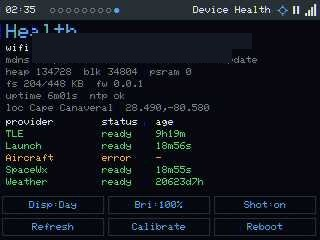
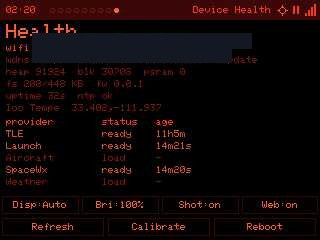
feat: web-server on/off toggle (boots off by default; Health + serial control)
Reclaim contiguous heap for the live feeds on the no-PSRAM board by stopping the
AsyncWebServer/AsyncTCP listener when remote access isn't needed.

- WebPortal::start()/stop()/running(). begin() now only REGISTERS routes; start()
  opens the listener + mDNS. (This split fixes a wedge: a boot-off device must never
  do begin()->end()->begin(), which left the socket not accepting.)
- Boots OFF by default (webOnBoot setting, default false) so the feeds get the full
  ~65 KB largest block instead of ~16-30 KB with the server + screenshot buffer up.
- Re-enable from the Health "Web" toggle (persists webOnBoot) or the serial console:
  `web on` / `web off` / `web` (toggle) / `heap` / `reboot`. No lockout — a reboot
  always comes up off, and serial always works.
- Verified over USB serial: boot-off, serial `web on` restores the API cleanly,
  toggle round-trips, heap delta confirmed.

Docs: README Health caption + backlog updated (shipped); README "what's next"
drops the now-done item.

Changed region(s): [[0.0, 0.0, 1.0, 0.9917], [0.7188, 0.2333, 0.8125, 0.2625], [0.2812, 0.6708, 0.3125, 0.7]]

diff --git a/src/services/WebPortal.cpp b/src/services/WebPortal.cpp
@@ -236,10 +236,9 @@ bool WebPortal::begin(Settings* s, const String& hostname) {
 
   String host = _s->getString("hostname", hostname.c_str());   // editable mDNS name (settings)
   host.trim(); if (!host.length()) host = hostname;
-  if (MDNS.begin(host.c_str())) {
-    MDNS.addService("http", "tcp", 80);
-    Serial.printf("[web] http://%s.local/\n", host.c_str());
-  }
+  _host = host;
+  // NOTE: routes are REGISTERED here but the listener is NOT started — call start()
+  // for that (so a boot-off device never does a begin()->end() that wedges the socket).
 
   _server.on("/", HTTP_GET, [](AsyncWebServerRequest* req) {
     req->send(200, "text/html", kIndexHtml);
@@ -330,10 +329,24 @@ bool WebPortal::begin(Settings* s, const String& hostname) {
   // OTA + settings basic-auth (spec §13).
   ElegantOTA.setAuth(_s->getString("otaUser", "admin").c_str(),
                      _s->getString("otaPass", "overhead").c_str());
-  ElegantOTA.begin(&_server);
-
-  _server.begin();
-  return true;
+  ElegantOTA.begin(&_server);            // attach OTA handlers (no listener yet)
+  return true;                           // start() opens the listener
 }
 
-void WebPortal::loop() { ElegantOTA.loop(); }
+void WebPortal::loop() { if (_running) ElegantOTA.loop(); }
+
+void WebPortal::stop() {
+  if (!_running) return;
+  _server.end();                         // close the listener (routes stay registered)
+  MDNS.end();
+  _running = false;
+  Serial.printf("[web] server OFF  largest free block = %u\n", (unsigned)ESP.getMaxAllocHeap());
+}
+
+void WebPortal::start() {
+  if (_running) return;
+  _server.begin();
+  if (MDNS.begin(_host.c_str())) { MDNS.addService("http", "tcp", 80); Serial.printf("[web] http://%s.local/\n", _host.c_str()); }
+  _running = true;
+  Serial.printf("[web] server ON   largest free block = %u\n", (unsigned)ESP.getMaxAllocHeap());
+}

diff --git a/src/main.cpp b/src/main.cpp
@@ -272,7 +272,12 @@ void setup() {
 
   web.setStatusJsonProvider(fillStatusJson);
   web.setDebug(&app, &display);     // /api/screen.bmp, /api/tap, /api/swipe
-  web.begin(&settings, gHostname);  // up early so OTA/API survive the lean update pass
+  web.begin(&settings, gHostname);  // registers routes only (no listener yet)
+  // Field default: boot with the web server OFF so the AsyncTCP/server footprint
+  // doesn't crowd the no-PSRAM heap floor — the live feeds get max contiguous heap.
+  // Re-enable any time from the Health "Web" toggle or the serial console ("web on").
+  if (settings.getBool("webOnBoot", false)) web.start();
+  else Serial.println("[web] booted OFF (webOnBoot=false) — type 'web on' on serial, or tap Health->Web");
 
   runBootUpdater();   // two-phase boot: refresh stale caches in a lean phase, then reboot to viewer
 
@@ -334,6 +339,7 @@ void setup() {
   healthPage = new PageHealth(touch, timeSvc, locSvc, gHostname,
                               tleProv, launchProv, aircraftProv, spaceWxProv, weatherProv,
                               themeCtl, settings);
+  healthPage->setWebPortal(&web);     // "Web" on/off toggle frees heap for the feeds
   // Carousel, ground->space order (spec §4.1): Agenda (home), Launches, Aircraft,
   // Satellites, Space Wx, Solar System, then Diagnostics.
   app.addPage(agendaPage);
@@ -362,8 +368,30 @@ void setup() {
                 Display::freeHeap(), Display::largestFreeBlock());
 }
 
+// Serial console commands (recovery + diagnostics). Most useful: re-enable the web
+// server after it's been toggled off (so toggling it off can never lock you out).
+//   web on | web off | web   (toggle) ;  heap ;  reboot
+static void serviceSerialCmd() {
+  if (!Serial.available()) return;
+  String cmd = Serial.readStringUntil('\n'); cmd.trim(); cmd.toLowerCase();
+  if (cmd.startsWith("web")) {
+    String a = cmd.substring(3); a.trim();
+    if (a == "on")        web.start();
+    else if (a == "off")  web.stop();
+    else                  { if (web.running()) web.stop(); else web.start(); }
+    Serial.printf("[cmd] web %s\n", web.running() ? "ON" : "OFF");
+  } else if (cmd == "heap") {
+    Serial.printf("[cmd] free=%u largestBlock=%u\n", (unsigned)ESP.getFreeHeap(), (unsigned)ESP.getMaxAllocHeap());
+  } else if (cmd == "reboot") {
+    Serial.println("[cmd] rebooting"); delay(50); ESP.restart();
+  } else if (cmd.length()) {
+    Serial.printf("[cmd] unknown: '%s' (try: web on|off, heap, reboot)\n", cmd.c_str());
+  }
+}
+
 void loop() {
   uint32_t now = millis();
+  serviceSerialCmd(); // console: web on|off, heap, reboot
   net.poll();        // dispatch completed HTTP jobs on the UI thread
   timeSvc.tick();    // detect NTP sync edge -> publish Time
   web.loop();        // ElegantOTA pump

diff --git a/src/pages/PageHealth.cpp b/src/pages/PageHealth.cpp
@@ -13,6 +13,7 @@
 #include "../providers/WeatherProvider.h"
 #include "../core/ThemeController.h"
 #include "../services/Settings.h"
+#include "../services/WebPortal.h"
 #include <LittleFS.h>
 #include <WiFi.h>
 #include <time.h>
@@ -64,18 +65,22 @@ static int briIndex(Settings& s) {
 }
 
 void PageHealth::onTouch(App& app, int x, int y) {
-  if (y >= app.contentH() - 44 && y < app.contentH() - 26) {   // display / brightness / shots row
-    int col = x / (app.contentW() / 3);
+  if (y >= app.contentH() - 44 && y < app.contentH() - 26) {   // display / brightness / shots / web row
+    int col = x / (app.contentW() / 4);
     if (col == 0) {                                            // cycle palette
       setThemeMode(_settings, (themeModeIndex(_settings) + 1) % 4);
       _theme.forceReapply();
     } else if (col == 1) {                                     // cycle brightness
       _settings.set("backlight", (long)kBri[(briIndex(_settings) + 1) % 5]);
       _settings.save(); _theme.forceReapply();
-    } else {                                                   // toggle remote screenshots
+    } else if (col == 2) {                                     // toggle remote screenshots
       bool on = !app.display().shotsEnabled();
       app.display().setShotsEnabled(on);
       _settings.set("debugShots", on); _settings.save();
+    } else if (_web) {                                         // toggle the web server (frees heap)
+      if (_web->running()) _web->stop(); else _web->start();
+      _settings.set("webOnBoot", _web->running());             // persist the boot preference
+      _settings.save();
     }
     _dirty = _needClear = true;
     return;
@@ -162,16 +167,21 @@ void PageHealth::draw(App& app) {
     g.drawString("refreshing providers...", cw / 2, cy0 + ch - 52);
   }
 
-  // Display-mode / brightness / screenshots buttons (tap to cycle/toggle).
-  int ty = cy0 + ch - 44, tw = cw / 3;
+  // Display-mode / brightness / screenshots / web-server buttons (tap to cycle/toggle).
+  int ty = cy0 + ch - 44, tw = cw / 4;
   g.setTextDatum(textdatum_t::middle_center);
   g.setTextColor(gTheme.accent, gTheme.bg);
-  g.drawRect(2, ty, tw - 4, 18, gTheme.grid);
+  g.drawRect(2, ty, tw - 3, 18, gTheme.grid);
   g.drawString(String("Disp:") + kThemeNames[themeModeIndex(_settings)], tw / 2, ty + 9);
-  g.drawRect(tw + 2, ty, tw - 4, 18, gTheme.grid);
+  g.drawRect(tw + 2, ty, tw - 3, 18, gTheme.grid);
   g.drawString(String("Bri:") + kBriName[briIndex(_settings)], tw + tw / 2, ty + 9);
-  g.drawRect(2 * tw + 2, ty, tw - 4, 18, gTheme.grid);
+  g.drawRect(2 * tw + 2, ty, tw - 3, 18, gTheme.grid);
   g.drawString(String("Shot:") + (app.display().shotsEnabled() ? "on" : "off"), 2 * tw + tw / 2, ty + 9);
+  g.drawRect(3 * tw + 2, ty, tw - 4, 18, gTheme.grid);     // web server on/off (frees heap for feeds)
+  bool webOn = !_web || _web->running();
+  g.setTextColor(webOn ? gTheme.accent : gTheme.warn, gTheme.bg);
+  g.drawString(String("Web:") + (webOn ? "on" : "off"), 3 * tw + tw / 2, ty + 9);
+  g.setTextColor(gTheme.accent, gTheme.bg);
 
   // Button row.
   int by = cy0 + ch - 22, bw = cw / 3;

diff --git a/src/services/WebPortal.h b/src/services/WebPortal.h
@@ -19,6 +19,14 @@ public:
   bool begin(Settings* s, const String& hostname);
   void loop();   // pump ElegantOTA (handles post-update reboot in async mode)
 
+  // Stop/start the listener to reclaim contiguous heap for the feeds (the AsyncTCP/
+  // server footprint). Routes stay registered — start() just re-opens the socket +
+  // mDNS. Runtime-only (a reboot always comes up with the server ON), so there's no
+  // permanent lockout: re-enable from the Health "Web" toggle or the serial console.
+  void stop();
+  void start();
+  bool running() const { return _running; }
+
   // main injects a filler for /api/status (heap, wifi, time, location) so the
   // portal stays decoupled from the services it reports on.
   void setStatusJsonProvider(std::function<void(JsonDocument&)> fn) { _statusFn = std::move(fn); }
@@ -35,4 +43,6 @@ private:
   std::function<void(JsonDocument&)> _statusFn;
   File _up;                              // in-progress /api/fs upload target
   String _apiUser, _apiPass;             // Basic-auth creds gating the API (= OTA creds)
+  String _host;                          // mDNS hostname (for restart)
+  bool   _running = false;               // listener up?
 };

diff --git a/src/pages/PageHealth.h b/src/pages/PageHealth.h
@@ -12,6 +12,7 @@ class SpaceWxProvider;
 class WeatherProvider;
 class ThemeController;
 class Settings;
+class WebPortal;
 
 // pages/PageHealth — System / diagnostics (spec §6 Health). System info, a
 // per-provider status table (status + age), and action buttons (force-refresh /
@@ -29,6 +30,7 @@ public:
       _theme(theme), _settings(settings) {}
 
   const char* title() const override { return "Device Health"; }
+  void setWebPortal(WebPortal* w) { _web = w; }   // for the "Web" on/off toggle
   void onEnter(App& app) override { _dirty = _needClear = true; }
   void onTouch(App& app, int x, int y) override;
   void tick(App& app, uint32_t nowMs) override;
@@ -48,6 +50,7 @@ private:
   WeatherProvider& _wx;
   ThemeController& _theme;
   Settings&        _settings;
+  WebPortal*       _web = nullptr;   // optional: status-strip-free web-server toggle
 
   bool _dirty = true;
   bool _needClear = true;

diff --git a/BACKLOG.md b/BACKLOG.md
@@ -235,16 +235,15 @@ hazards, SPECI Director badge. Remaining:
 - TLEs retained WATCHLIST-ONLY (full lists ~18 KB of Strings froze TLS). Aircraft cap 24,
   METAR cap 12. On the PSRAM CrowPanel, keep full lists + a sprite double-buffer (board-conditional).
 - Boot fires ~12 HTTPS jobs serially — consider staggering to cut heap contention.
-- **Web-server-off toggle (Health) to reclaim contiguous heap.** ESPAsyncWebServer +
-  AsyncTCP hold a meaningful contiguous block; a Health toggle that `end()`s the server
-  (and restarts it on demand) would free heap for the live feeds — most useful for the
-  **live ADS-B radar**, which clears + re-fetches often and is starved below the TLS
-  floor (visible as a "feed unavailable" radar when the screenshot buffer is also up).
-  Tradeoff: no remote API (screenshot/tap/OTA) while off, so it must restart cleanly
-  from an on-device control. NOTE: *splitting* the settings page from the API would NOT
-  help — the heap cost is the shared AsyncTCP/AsyncWebServer machinery + the TLS client,
-  not the routes or the (flash-resident) HTML. The existing "Shot: off" toggle already
-  frees the 16 KB screenshot buffer; this would free the server stack on top of that.
+- **Web-server-off toggle (Health) to reclaim contiguous heap. — DONE (Jun 2026).**
+  WebPortal `start()`/`stop()` (routes register in `begin()`; only `start()` opens the
+  listener, so a boot-off device never does a wedging begin->end->begin). It **boots OFF
+  by default** (`webOnBoot`, default false) so the feeds get max contiguous heap; the
+  Health **Web** toggle (persists `webOnBoot`) and a **serial console** (`web on|off`,
+  `heap`, `reboot`) re-enable it — no lockout, and a reboot always comes up off.
+  Measured ~65 KB largest free block with the server off vs ~16–30 KB with it + the
+  screenshot buffer up. (Confirmed: splitting the settings page from the API would NOT
+  help — the cost is the shared AsyncTCP machinery, not the routes/HTML.)
 - **Unified per-airport METAR pool (v1 DONE, Jun 2026).** `services/MetarStore` is a
   shared per-ICAO pool (lat/lon/hpa/cloud/wind/temp/cat/obs, bounded + LRU). The METAR
   list + pressure map both UPSERT the stations they parse; the pressure map renders the

diff --git a/README.md b/README.md
@@ -208,7 +208,7 @@ strong wind) is surfaced cross-tab as a notice instead (see the Director).
 | |
 |---|
 | ![Health](docs/img/page8-health.jpg) |
-| The system table (WiFi, heap + **largest-block low-water** + **httpsSkip**, filesystem, uptime, location) and per-provider **status + age in d/h/m/s**, plus on-device controls: cycle the display palette (Auto/Day/Night/Red) and brightness, toggle remote screenshots, **Refresh** all providers, **Recalibrate** touch, and a two-tap **Reboot**. *(WiFi SSID and LAN IP boxed out here.)* |
+| The system table (WiFi, heap + **largest-block low-water** + **httpsSkip**, filesystem, uptime, location) and per-provider **status + age in d/h/m/s**, plus on-device controls: cycle the display palette (Auto/Day/Night/Red) and brightness, toggle remote screenshots, toggle the **Web** server (off frees ~35 KB of contiguous heap for the feeds — it boots off by default and re-enables here or via the serial console), **Refresh** all providers, **Recalibrate** touch, and a two-tap **Reboot**. *(WiFi SSID and LAN IP boxed out here.)* |
 
 ---
 
@@ -307,8 +307,7 @@ desk.
 
 ## What's next (highlights)
 
-A few of the juicier backlog items: a **web-server-off toggle** to reclaim contiguous
-heap for the feeds; **az/el rotor output** (drive a real or DIY antenna rotator) and an
+A few of the juicier backlog items: **az/el rotor output** (drive a real or DIY antenna rotator) and an
 **IMU handheld antenna-aim** mode; externalising the orrery body list to LittleFS (comets,
 NEOs, dwarf planets); Saturn's moons; true WPC surface fronts (blocked on a data source);
 aircraft flight trails; rover/APOD imagery on PSRAM boards; on-device watchlist editing;